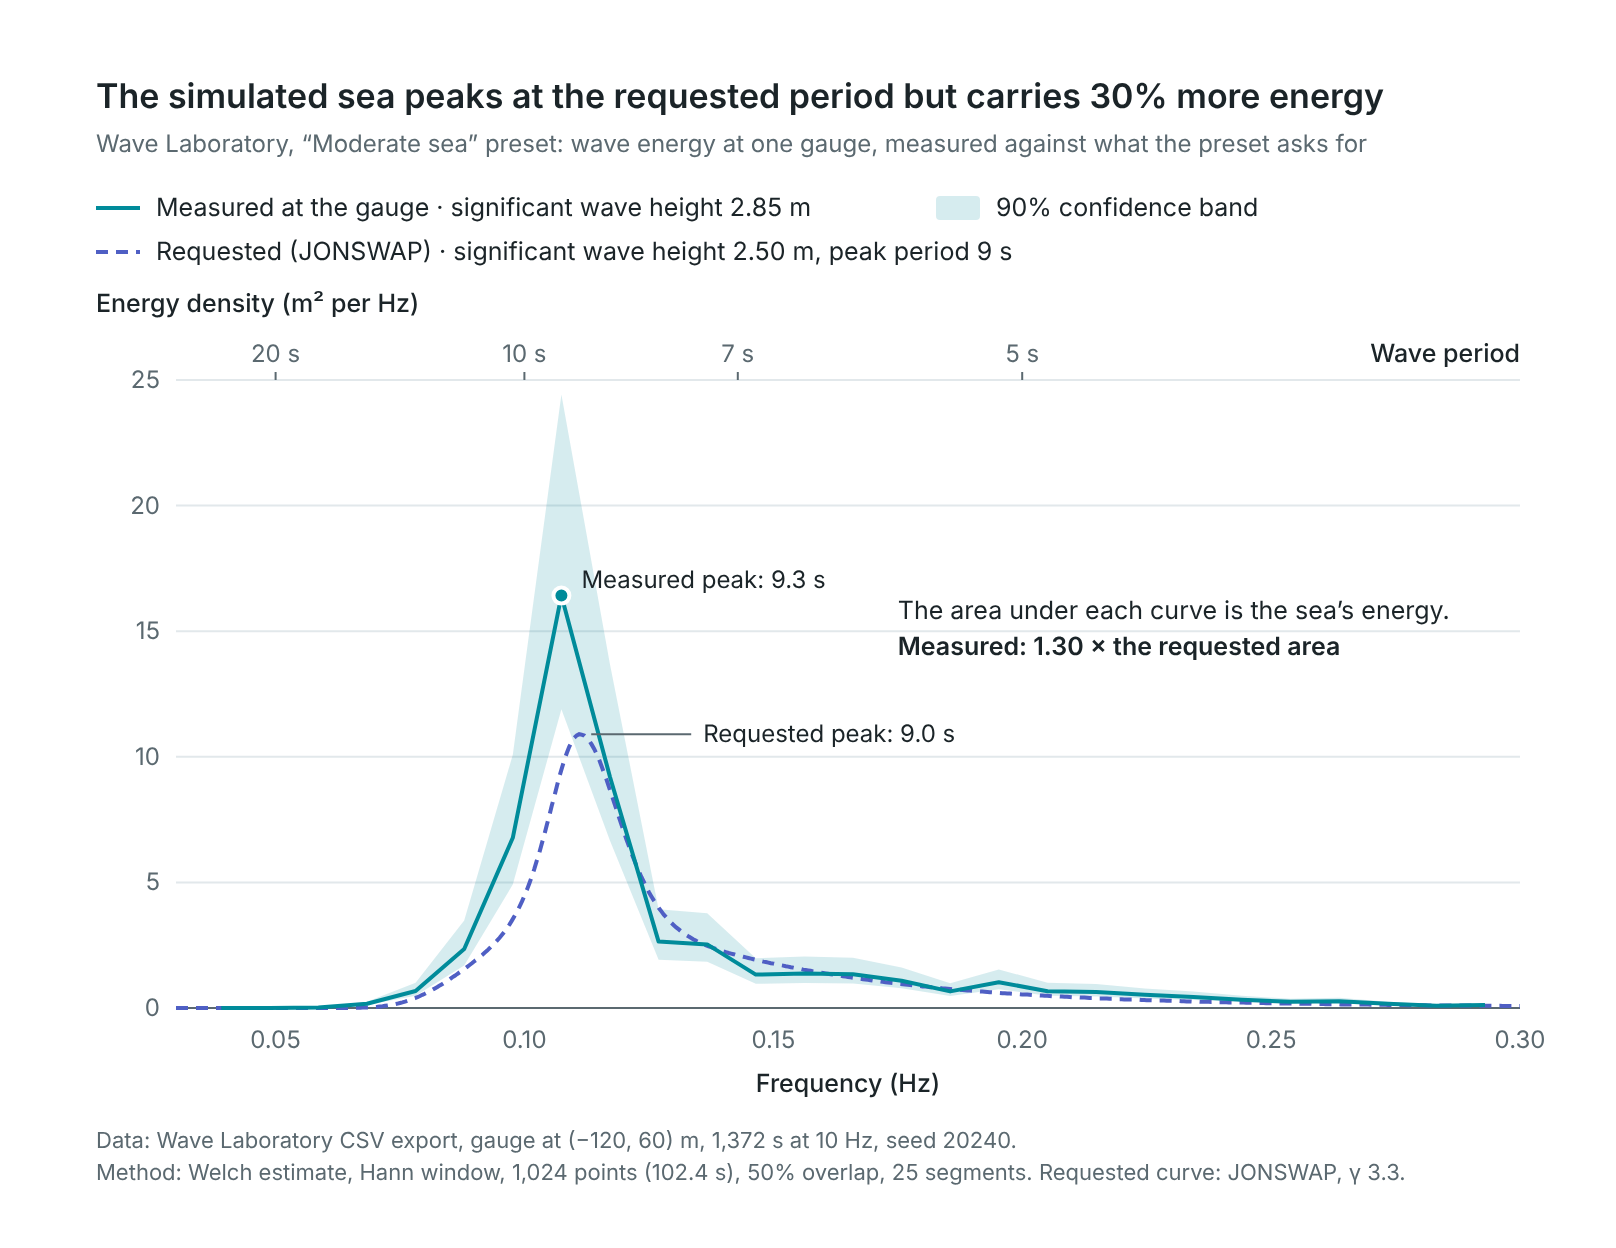
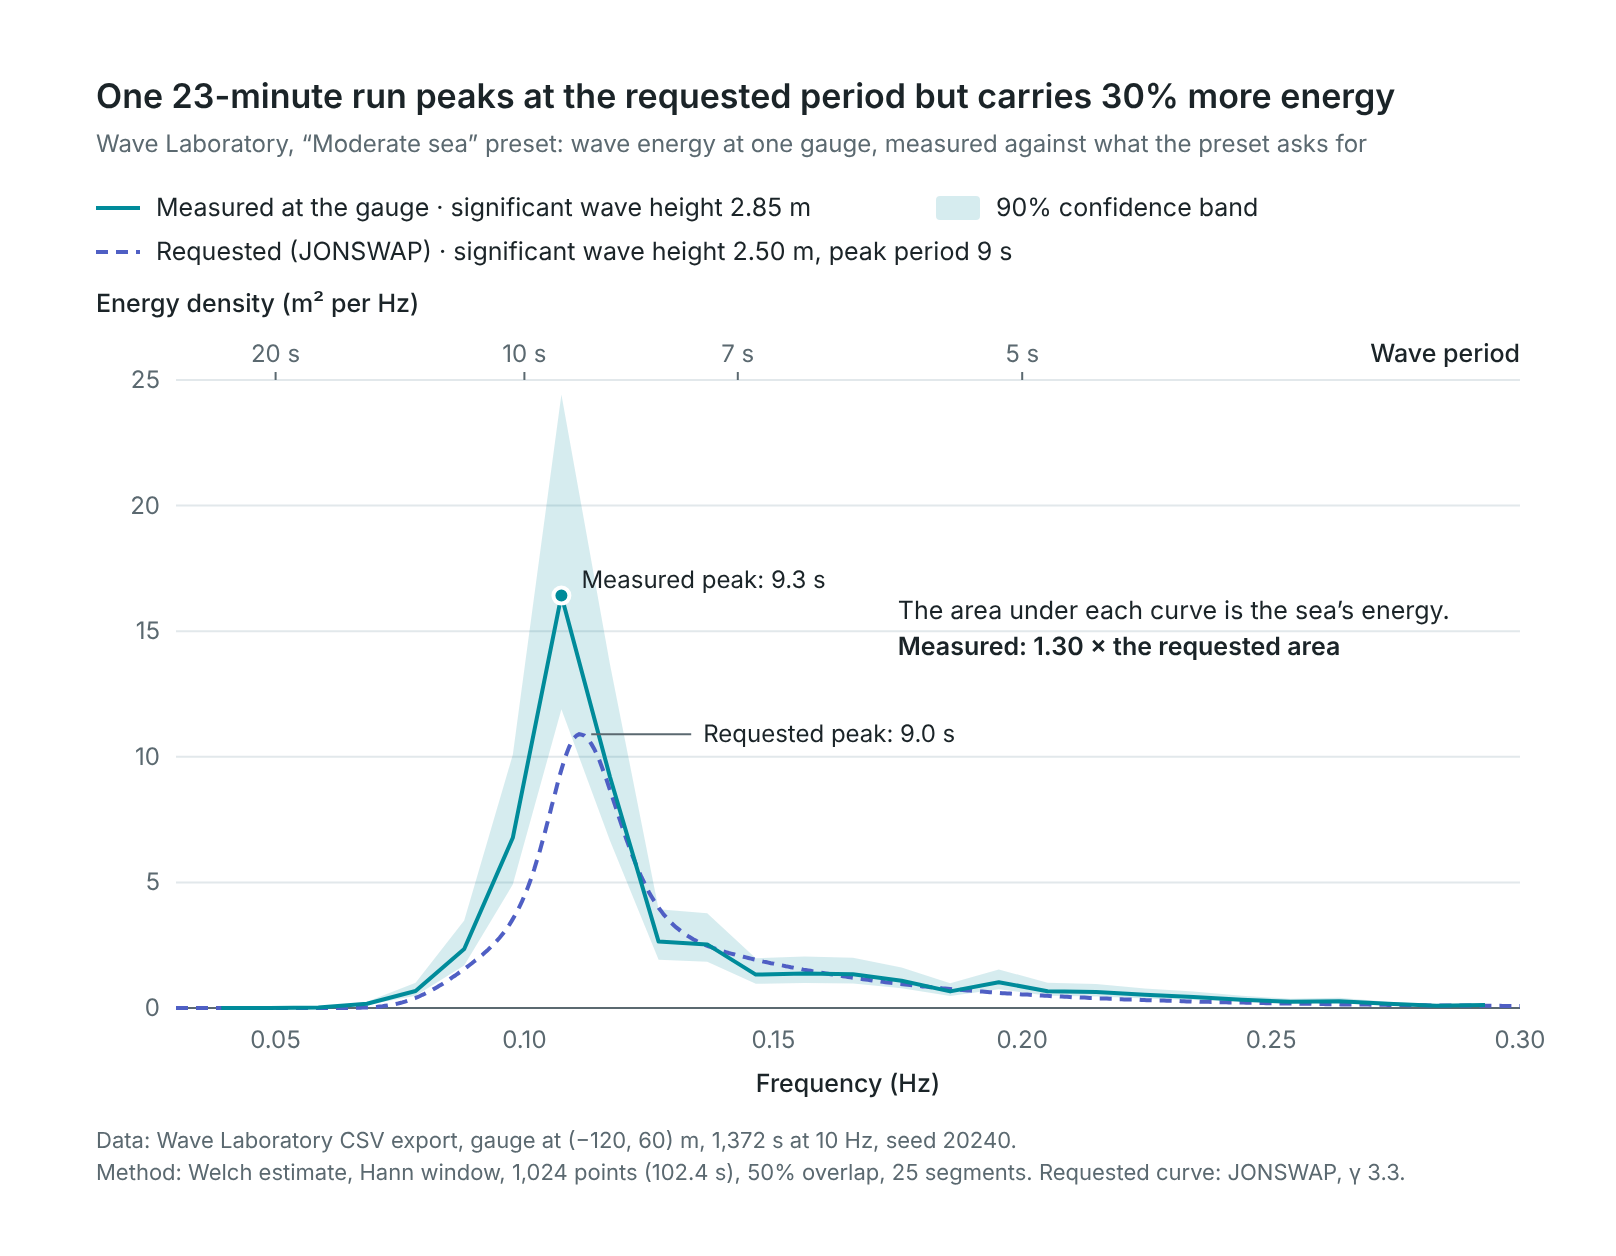
Scope the Wave spectrum title to the one recorded run
The 30% energy excess comes from a single 23-minute run with one seed,
so the title names the run rather than the simulated sea in general.

diff --git a/.10x/reviews/track4-wave/spectrum_figure.py b/.10x/reviews/track4-wave/spectrum_figure.py
@@ -42,9 +42,9 @@ for per in (20,10,7,5):  # the same axis read as wave period, T = 1/f
     g.append(f'<line class="axis" x1="{X(1/per):.1f}" x2="{X(1/per):.1f}" y1="{T-4}" y2="{T}"/><text class="tick" x="{X(1/per):.1f}" y="{T-9}" text-anchor="middle">{per} s</text>')
 ip=np.argmax(P);jp=np.argmax(J)
 svg=f'''<svg viewBox="0 0 {W} {H}" width="{W}" height="{H}" role="img" aria-labelledby="t d" xmlns="http://www.w3.org/2000/svg">
-<title id="t">The simulated sea peaks at the requested period but carries {pct}% more energy</title>
+<title id="t">One {len(x)/600:.0f}-minute run peaks at the requested period but carries {pct}% more energy</title>
 <desc id="d">Line chart of wave energy density against frequency at one wave gauge in Wave Laboratory's Moderate sea preset. The measured spectrum, from a {len(x)/10:,.0f}-second record, peaks at {1/f[ip]:.1f} seconds, close to the requested 9.0 seconds, but the area under it is {ratio:.2f} times the requested JONSWAP spectrum: a significant wave height of {hm0:.2f} metres against the 2.50 metres requested.</desc>
-<text class="title" x="{M}" y="30">The simulated sea peaks at the requested period but carries {pct}% more energy</text>
+<text class="title" x="{M}" y="30">One {len(x)/600:.0f}-minute run peaks at the requested period but carries {pct}% more energy</text>
 <text class="sub" x="{M}" y="52">Wave Laboratory, “Moderate sea” preset: wave energy at one gauge, measured against what the preset asks for</text>
 <g class="legend" transform="translate({M} 84)">
 <line class="m" x1="0" x2="22" y1="-4" y2="-4"/><text x="30" y="0">Measured at the gauge · significant wave height {hm0:.2f} m</text>
